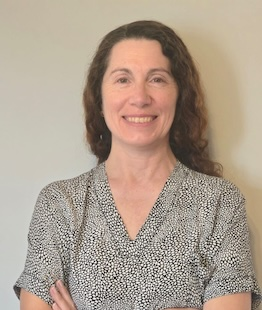
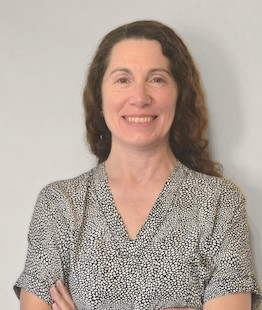
Match María's team photo background to Norberto's gray. (#3)
The home portraits sat on different walls (beige vs cool gray). Recolor María's backdrop to Norberto's wall tone, keep her lighting and hair edges, and bust the CDN cache on the home pages.

diff --git a/en/index.html b/en/index.html
@@ -646,7 +646,7 @@
               </div>
               <div class="team-block">
                 <div class="team-img">
-                  <img src="../images/maria.webp?v=1786530605" title="María Gulín Licensed Kinesiologist & Physiatrist"
+                  <img src="../images/maria.webp?v=1787847304" title="María Gulín Licensed Kinesiologist & Physiatrist"
                     alt="María Gulín Licensed Kinesiologist & Physiatrist" class="team-photo center-block d-block" width="314"
                     height="372" loading="lazy" />
                 </div>

diff --git a/fr/index.html b/fr/index.html
@@ -645,7 +645,7 @@
               </div>
               <div class="team-block">
                 <div class="team-img">
-                  <img src="../images/maria.webp?v=1786530605" title="María Gulín — kinésithérapeute et physiatre"
+                  <img src="../images/maria.webp?v=1787847304" title="María Gulín — kinésithérapeute et physiatre"
                     alt="María Gulín — kinésithérapeute et physiatre" class="team-photo center-block d-block" width="314"
                     height="372" loading="lazy" />
                 </div>

diff --git a/pt/index.html b/pt/index.html
@@ -641,7 +641,7 @@
               </div>
               <div class="team-block">
                 <div class="team-img">
-                  <img src="../images/maria.webp?v=1786530605" title="María Gulín — fisioterapeuta e fisiatra"
+                  <img src="../images/maria.webp?v=1787847304" title="María Gulín — fisioterapeuta e fisiatra"
                     alt="María Gulín — fisioterapeuta e fisiatra" class="team-photo center-block d-block" width="314"
                     height="372" loading="lazy" />
                 </div>

diff --git a/index.html b/index.html
@@ -646,7 +646,7 @@
               </div>
               <div class="team-block">
                 <div class="team-img">
-                  <img src="images/maria.webp?v=1786530605" title="María Gulín Kinesióloga Fisiatra"
+                  <img src="images/maria.webp?v=1787847304" title="María Gulín Kinesióloga Fisiatra"
                     alt="María Gulín Kinesióloga Fisiatra" class="team-photo center-block d-block" width="314"
                     height="372" loading="lazy" />
                 </div>
